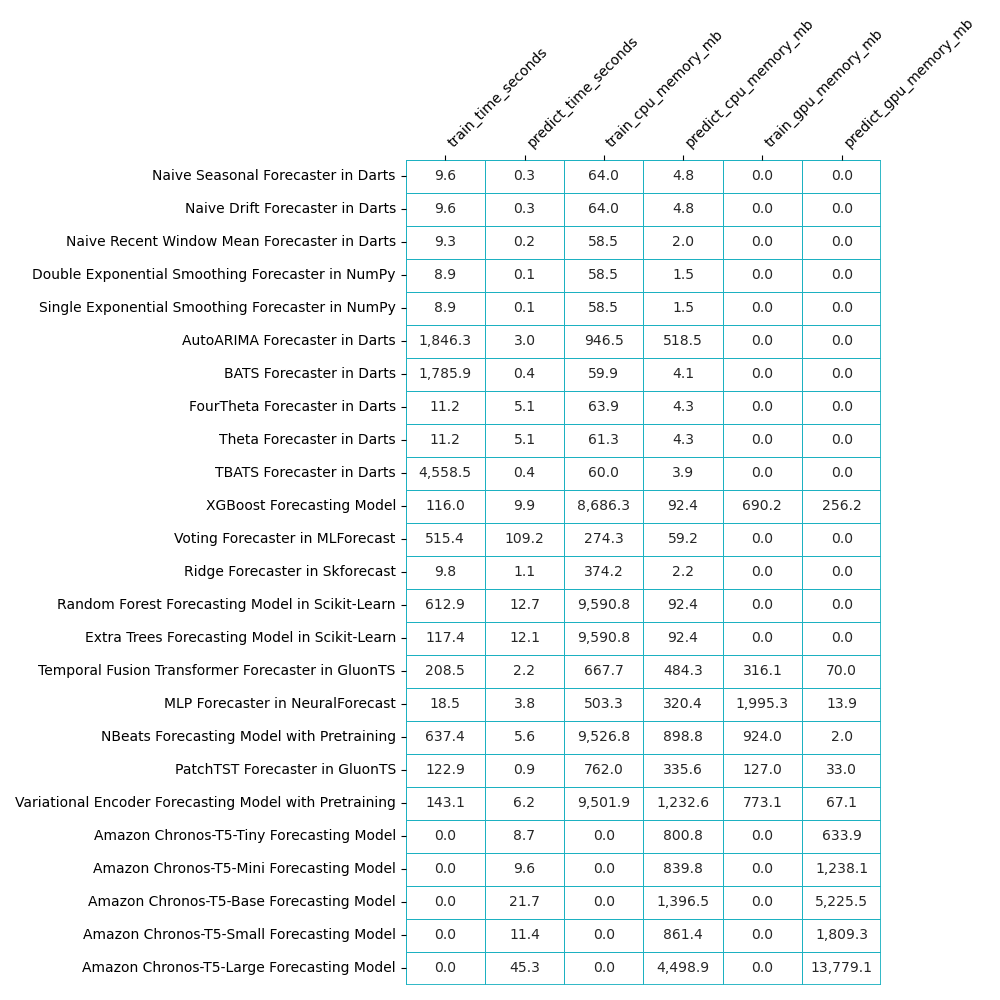
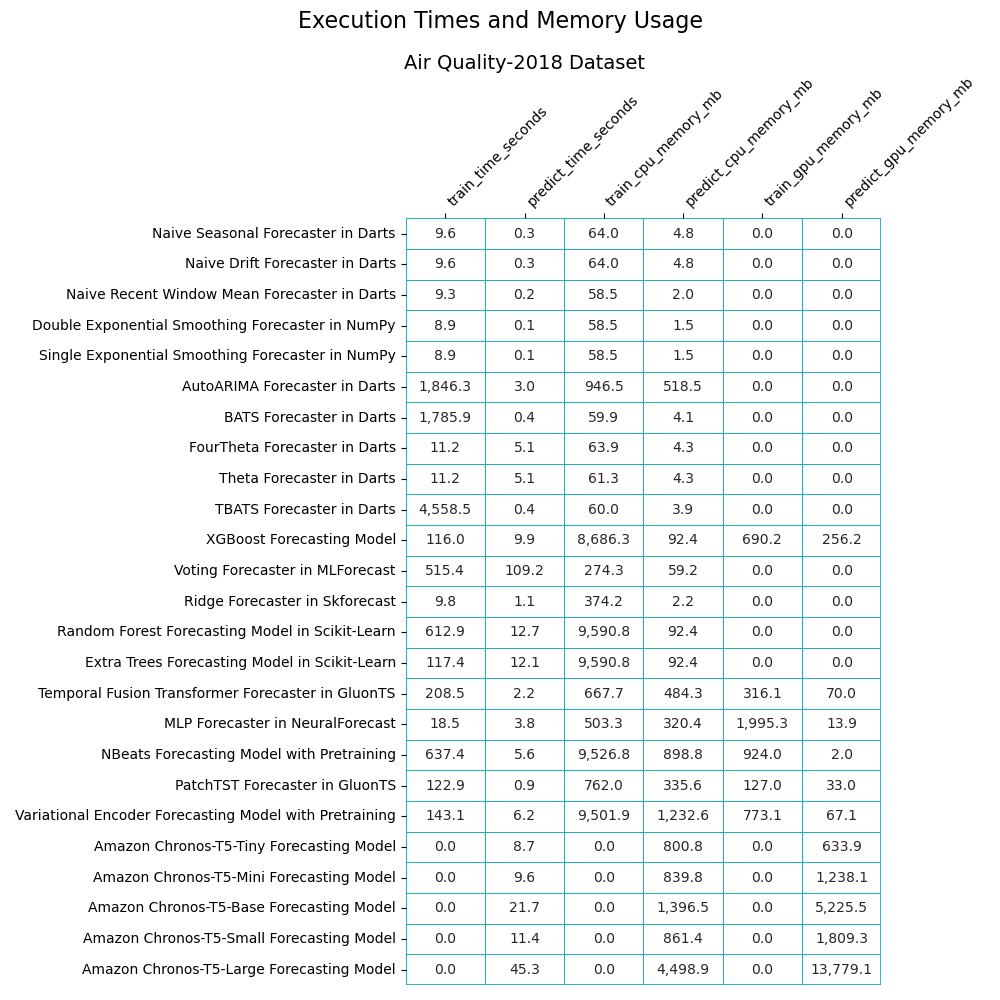
update exec times and memory chart

diff --git a/src/resource_tracking.py b/src/resource_tracking.py
@@ -82,7 +82,7 @@ def create_heatmap():
 
     # Generate the heatmap using white for all the values,
     # but the text will show the dataframe's values
-    plt.figure(figsize=(10, 10))  # Adjust as needed
+    fig = plt.figure(figsize=(10, 10))  # Adjust as needed
     ax = sns.heatmap(
         data_to_display, mask=mask,
         annot=formatted_values.values,
@@ -91,6 +91,13 @@ def create_heatmap():
         linewidths=0.5,
         linecolor='#1db1c1'
     )
+
+    # Using suptitle for the main title above everything
+    fig.suptitle('Execution Times and Memory Usage', fontsize=16, y=0.99)
+
+    # Using title for what you're calling the subtitle, which will now appear just above the heatmap
+    ax.text(0.25, 1.19, "Air Quality-2018 Dataset", ha='center', va='bottom', 
+        transform=ax.transAxes, fontsize=14)
 
     # Move the x-axis labels to the top
     ax.xaxis.tick_top()  # This moves the x-axis labels to the top
@@ -107,9 +114,6 @@ def create_heatmap():
     # ax.vlines(x=np.arange(num_columns+1), ymin=0, ymax=num_rows, color='#1db1c1', linewidth=1.0)
     ax.hlines(y=[num_rows], xmin=0, xmax=num_columns, color='#1db1c1', linewidth=2.0)
     ax.vlines(x=[num_columns], ymin=0, ymax=num_rows, color='#1db1c1', linewidth=2.0)
-
-
-
 
     # Remove the y-axis label
     plt.ylabel('')
